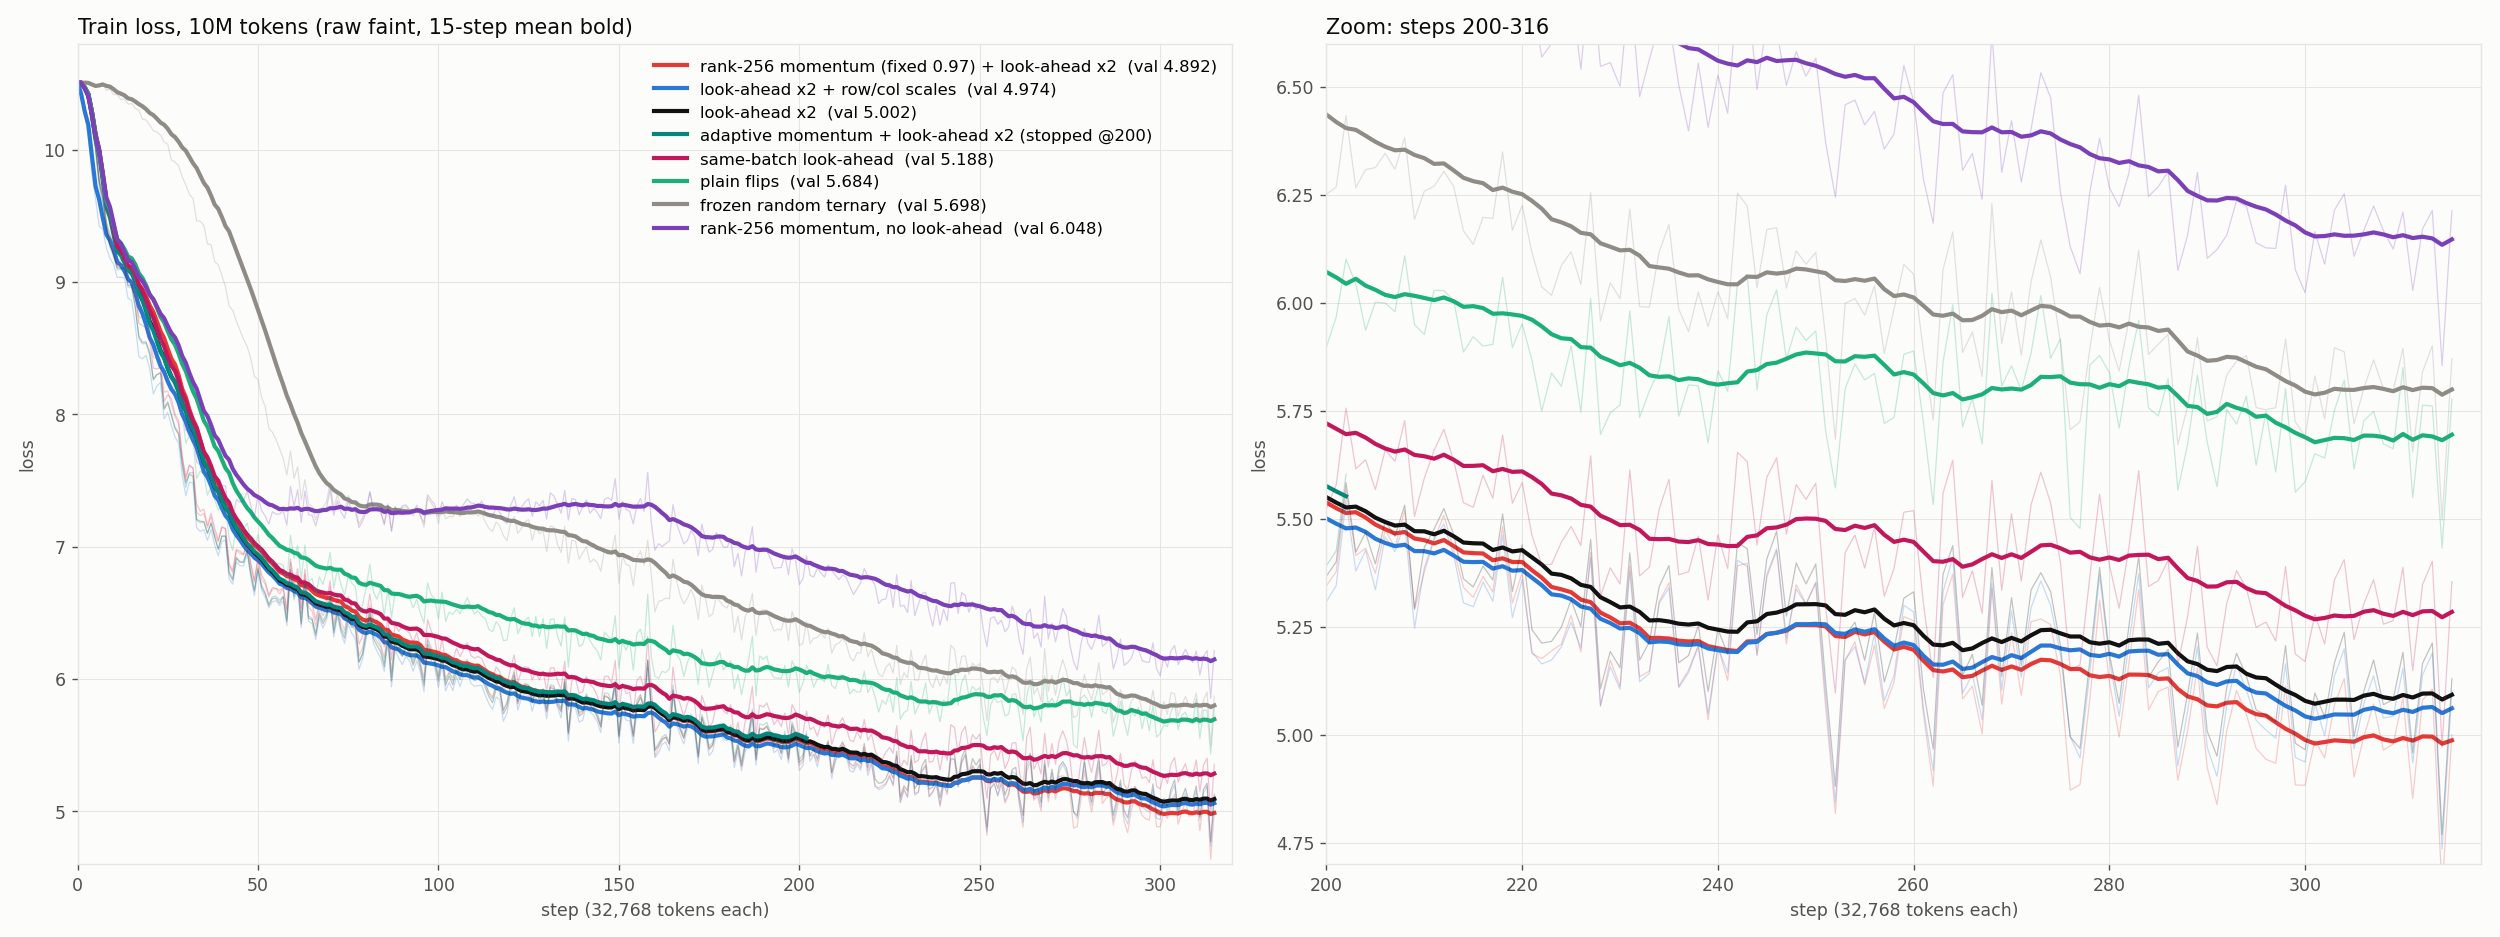
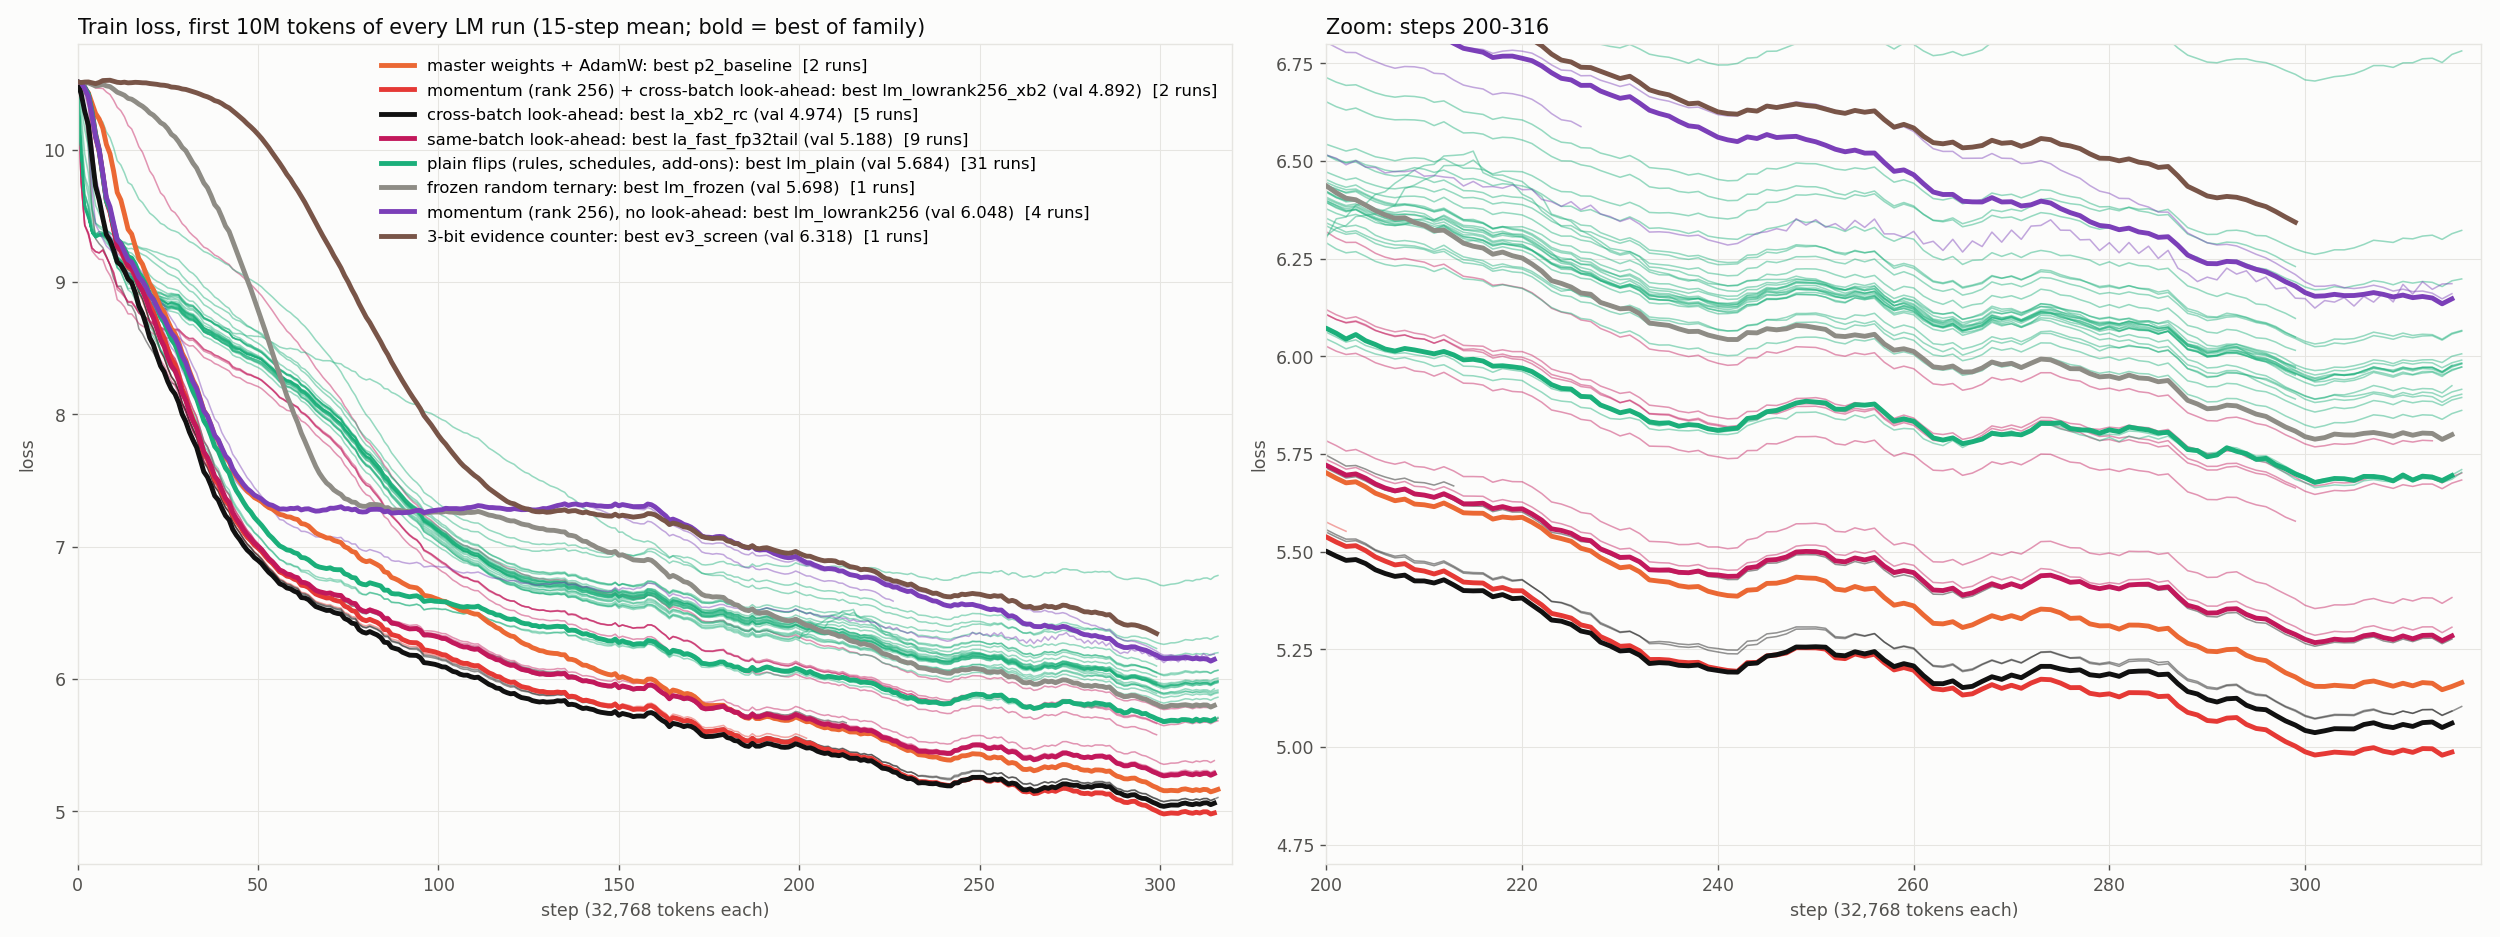
Plot: every LM run's first 10M tokens, grouped by family

diff --git a/scripts/plots/plot_lm_curves.py b/scripts/plots/plot_lm_curves.py
@@ -10,22 +10,32 @@ matplotlib.use("Agg")
 import matplotlib.pyplot as plt
 
 SURFACE, INK, INK2, GRID = "#fcfcfb", "#0b0b0b", "#52514e", "#e6e5e1"
-RUNS = [  # dir, label, color
-    ("lm_lowrank256_xb2", "rank-256 momentum (fixed 0.97) + look-ahead x2", "#e53935"),
-    ("la_xb2_rc", "look-ahead x2 + row/col scales", "#2a78d6"),
-    ("la_xb2", "look-ahead x2", "#111111"),
-    ("lm_lowrank256_adapt_xb2", "adaptive momentum + look-ahead x2 (stopped @200)", "#00897b"),
-    ("la_fast_fp32tail", "same-batch look-ahead", "#c2185b"),
-    ("lm_plain", "plain flips", "#1baf7a"),
-    ("lm_frozen", "frozen random ternary", "#8e8c85"),
-    ("lm_lowrank256", "rank-256 momentum, no look-ahead", "#7b3fb8"),
+# every LM run with 32,768 tokens/step, cut at 10.4M tokens; families share a color, the
+# best of each family (lowest mean train loss over its last 20 steps in the window) is bold
+FAMILIES = [  # label, color, runs
+    ("master weights + AdamW", "#eb6834", ["p2_baseline", "probe_master"]),
+    ("momentum (rank 256) + cross-batch look-ahead", "#e53935", ["lm_lowrank256_xb2", "lm_lowrank256_adapt_xb2"]),
+    ("cross-batch look-ahead", "#111111", ["la_xb2", "la_xb2_rc", "la_xb1", "la_xb2_r0.125", "overnight_full"]),
+    ("same-batch look-ahead", "#c2185b", ["la_fast_fp32tail", "la_fastramp_lr15", "la_fast_fp32tail_r04", "la1", "la2",
+                                          "la_r0ramp", "la_rwarm", "armA_cos_la1", "probe_fast"]),
+    ("plain flips (rules, schedules, add-ons)", "#1baf7a",
+     ["lm_plain", "armA_cosine", "armA_cos_600M", "armA_linear", "armA_cos_r005", "armA_cos_floor", "armA_cos_lr15",
+      "armA_cos_lockout", "armA_cos_ef", "armB_absscale", "p3b_acc1", "lr_ctl", "lo_once_t200", "lo_once_t1000",
+      "lo_norev_t1000", "ef_probe_a0", "ef_probe_a0.01", "ef_probe_a0.03", "ef_probe_a0.1", "gref1", "gref7",
+      "gref10", "gref10_r3x", "gref25", "gref100", "hump", "invmag", "rownorm", "rs_smoke", "rc_plain",
+      "rc_plain_lr1e2"]),
+    ("frozen random ternary", "#8e8c85", ["lm_frozen"]),
+    ("momentum (rank 256), no look-ahead", "#7b3fb8", ["lm_lowrank256", "lm_lowrank256_r04", "lm_lowrank256_r1",
+                                                       "lm_lowrank256_adapt"]),
+    ("3-bit evidence counter", "#795548", ["ev3_screen"]),
 ]
+MAX_STEP = 316
 
 
 def load(d):
     rows = [json.loads(l) for l in open(f"checkpoints/{d}/metrics.jsonl")]
-    tr = {r["step"]: r["loss"] for r in rows if "loss" in r and "tokens" in r}
-    v = [r["val_loss"] for r in rows if r.get("final") and "val_loss" in r]
+    tr = {r["step"]: r["loss"] for r in rows if "loss" in r and "tokens" in r and r["step"] <= MAX_STEP}
+    v = [r["val_loss"] for r in rows if r.get("final") and "val_loss" in r and r["step"] <= MAX_STEP + 1]
     s = np.array(sorted(tr)); L = np.array([tr[i] for i in s])
     return s, L, (v[-1] if v else None)
 
@@ -39,15 +49,24 @@ def smooth(y, k=15):
 ap = argparse.ArgumentParser(); ap.add_argument("--out", default="docs/figures/lm_curves.png")
 a = ap.parse_args()
 fig, (ax1, ax2) = plt.subplots(1, 2, figsize=(20, 7.5), facecolor=SURFACE)
-for d, lab, col in RUNS:
-    s, L, v = load(d)
-    lab = f"{lab}  (val {v:.3f})" if v else lab
-    for ax in (ax1, ax2):
-        ax.plot(s, L, color=col, lw=0.7, alpha=0.25)
-        ax.plot(s, smooth(L), color=col, lw=2.4, label=lab)
+n = 0
+for fam, col, runs in FAMILIES:
+    D = {d: load(d) for d in runs if os.path.exists(f"checkpoints/{d}/metrics.jsonl")}
+    D = {d: v for d, v in D.items() if len(v[0]) > 20}
+    best = min(D, key=lambda d: D[d][1][-20:].mean() if D[d][0][-1] >= 290 else 99)
+    for d, (st, L, v) in D.items():
+        n += 1
+        if d == best:
+            lab = f"{fam}: best {d}" + (f" (val {v:.3f})" if v else "") + f"  [{len(D)} runs]"
+            for ax in (ax1, ax2):
+                ax.plot(st, smooth(L), color=col, lw=2.8, label=lab, zorder=5)
+        else:
+            for ax in (ax1, ax2):
+                ax.plot(st, smooth(L), color=col, lw=0.9, alpha=0.45, zorder=2)
+print(n, "runs")
 ax1.set_ylim(4.6, 10.8); ax1.set_xlim(0, 320)
-ax2.set_xlim(200, 318); ax2.set_ylim(4.7, 6.6)
-for ax, tt in zip((ax1, ax2), ("Train loss, 10M tokens (raw faint, 15-step mean bold)",
+ax2.set_xlim(200, 318); ax2.set_ylim(4.7, 6.8)
+for ax, tt in zip((ax1, ax2), ("Train loss, first 10M tokens of every LM run (15-step mean; bold = best of family)",
                                "Zoom: steps 200-316")):
     ax.set_title(tt, loc="left", color=INK, fontsize=12)
     ax.set_facecolor(SURFACE); ax.grid(True, color=GRID, lw=0.6)
